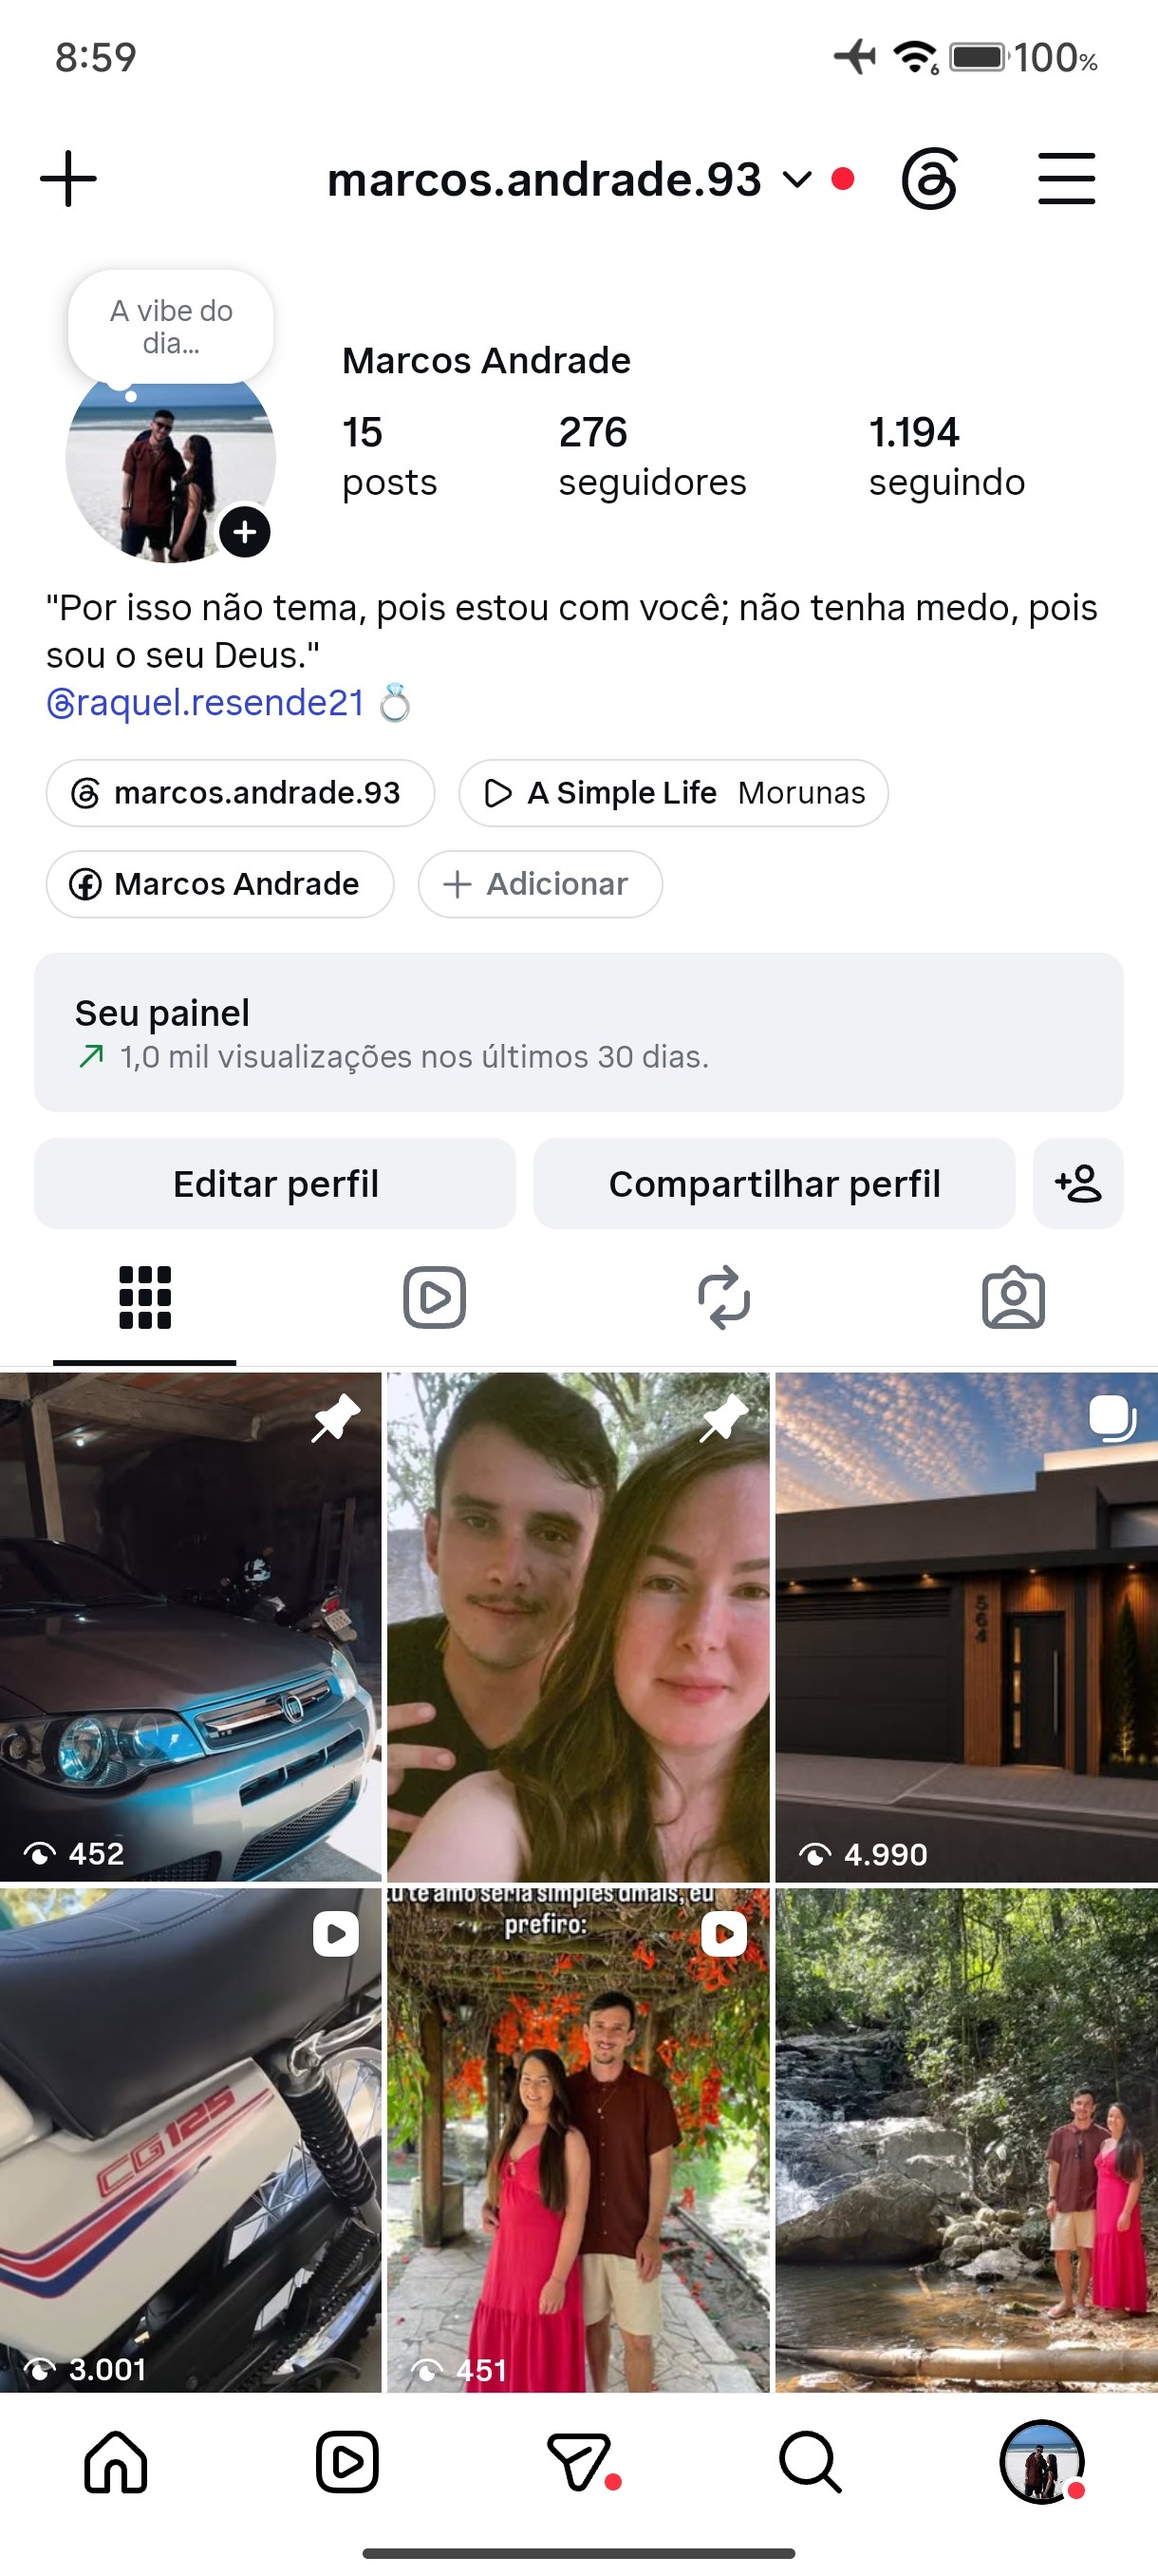
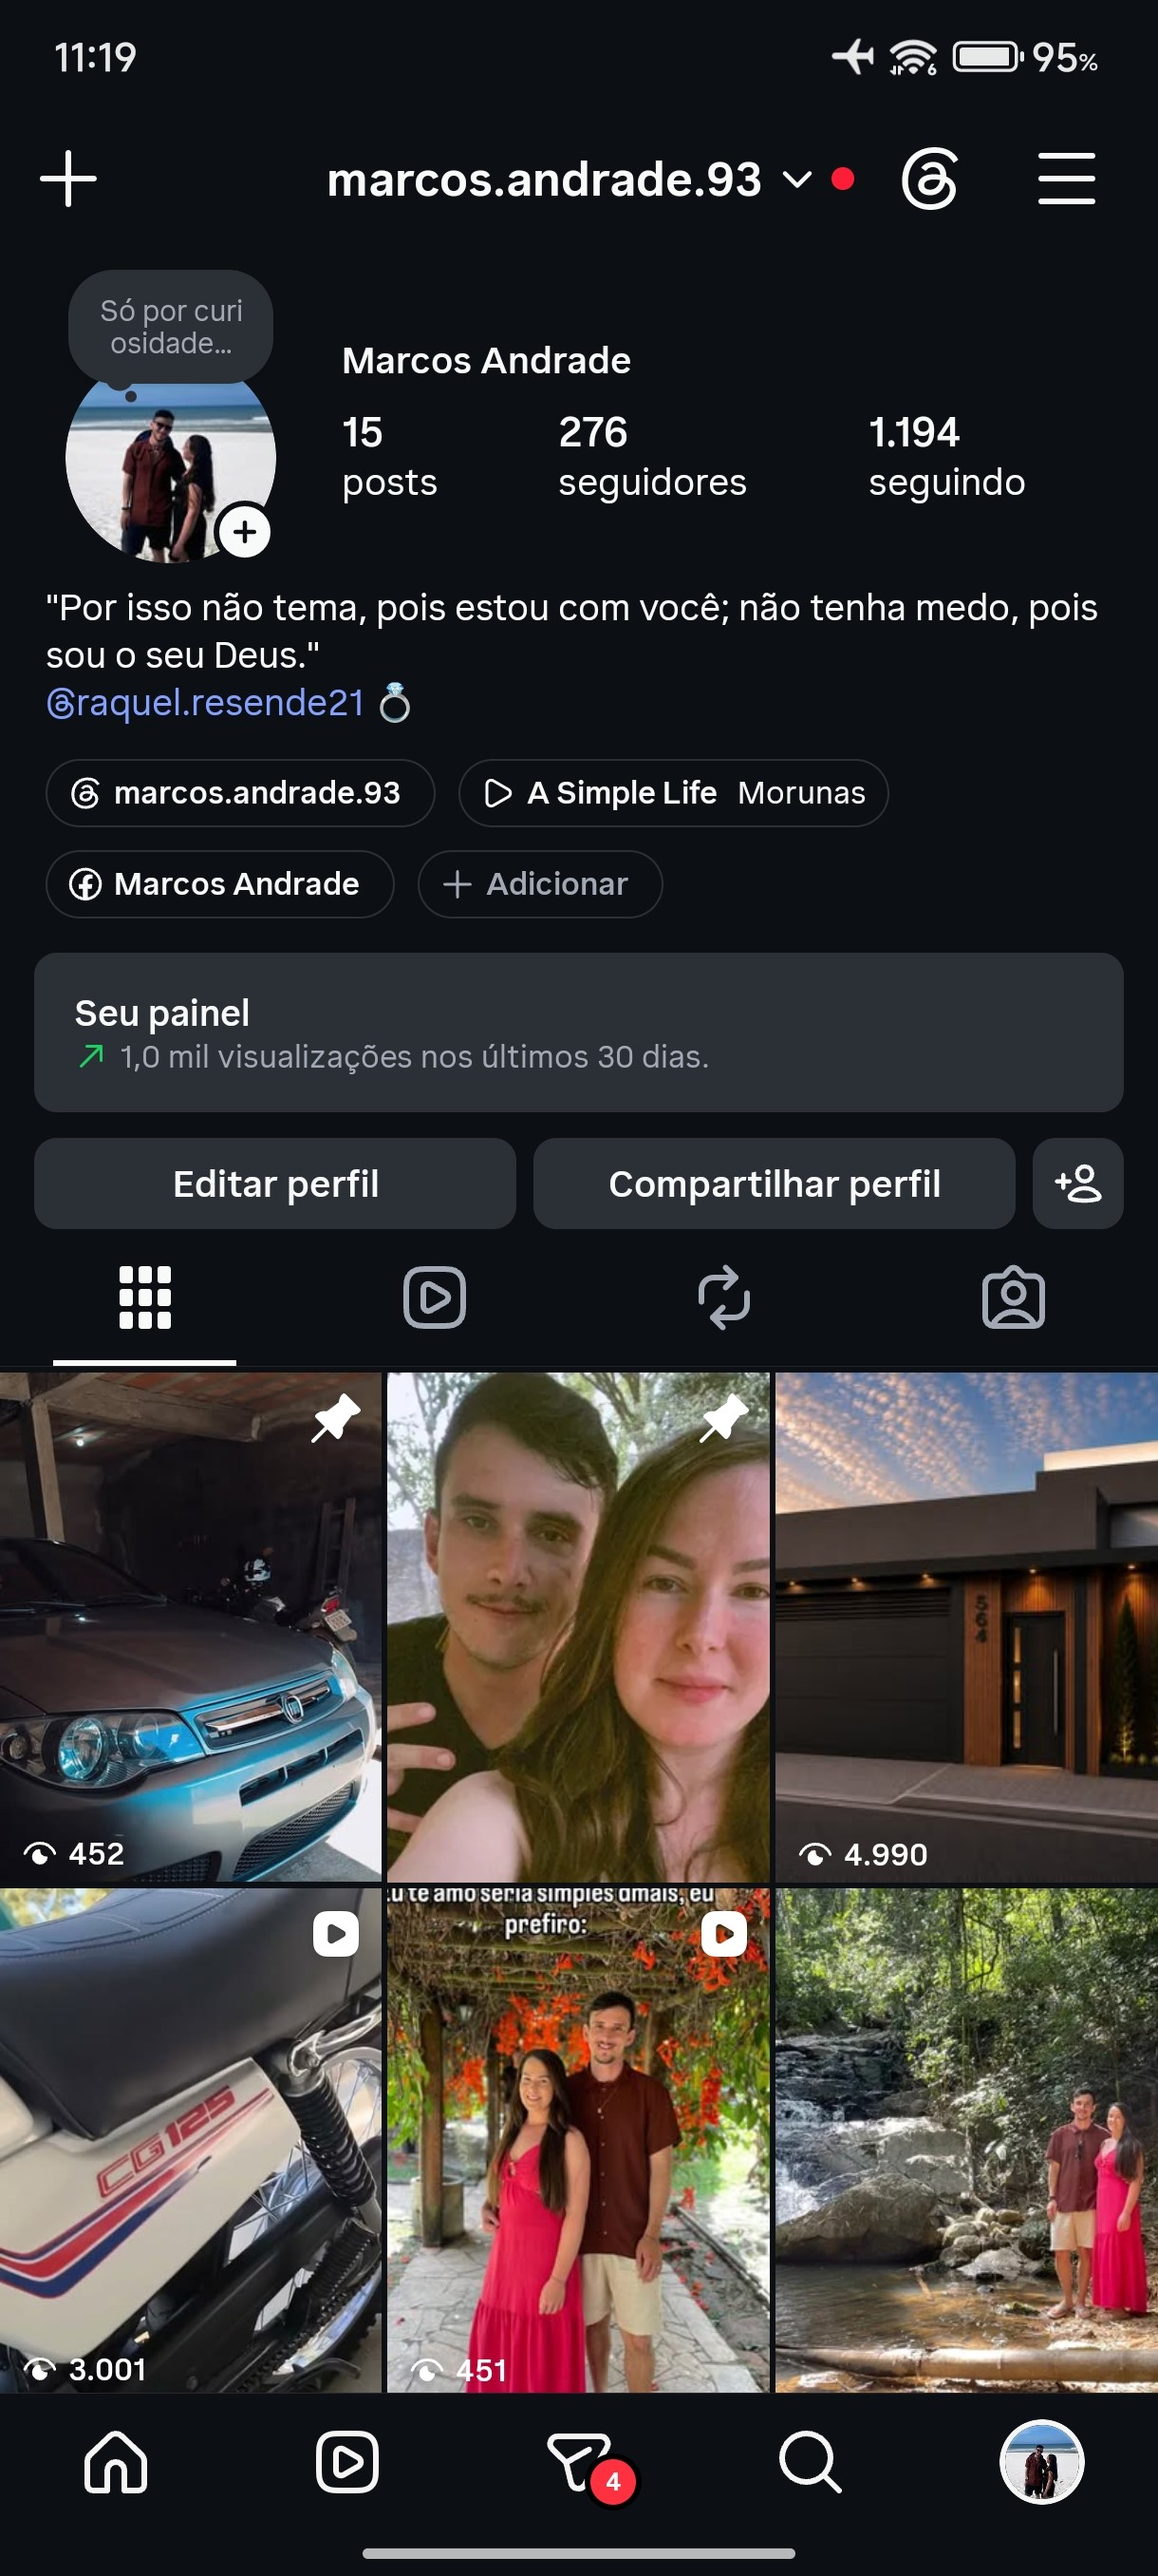
pagina

diff --git a/desafios/desafiosociais/index.html b/desafios/desafiosociais/index.html
@@ -12,11 +12,18 @@
 <body>
     <main>
         <section id="telefone">
-            <iframe src="home.html" name="tela" id="tela" frameborder="0"></iframe>
+            <iframe src="home.html" name="tela" id="tela" frameborder="0">
+                Seu navegador não suporta iframes.
+            </iframe>
 
         </section>
 
         <section id="redes_sociais">
+            <a href="home.html" target="tela"><img src="imagens/home.png" alt="Home"></a><br>
+            <a href="paginas/fck.html" target="tela"><img src="imagens/fcbk.png" alt="Facebook"></a><br>
+            <a href="paginas/inst.html" target="tela"><img src="imagens/instg.png" alt="Instagram"></a><br>
+            <a href="paginas/twt.html" target="tela"><img src="imagens/twt.png" alt="Twitter"></a><br>
+            <a href="paginas/wts.html" target="tela"><img src="imagens/wtsapp.png" alt="WhatsApp"></a>
 
         </section>
     </main>

diff --git a/desafios/desafiosociais/estilos/style.css b/desafios/desafiosociais/estilos/style.css
@@ -38,6 +38,26 @@ iframe#tela {
     position: relative;
     top: 80px;
     left: 22px;
-    width: 269px;
+    width: 267px;
     height: 471px;
+}
+
+section#redes_sociais {
+    text-align: right;
+}
+
+section#redes_sociais img {
+    width: 50px;
+    margin: 10px;
+    border-radius: 50%;
+    box-shadow: 2px 2px 5px #0000009a;
+    box-sizing: border-box;
+}
+
+section#redes_sociais img:hover {
+    border: 2px solid #ffffffce;
+    transform: translate(-3px, -3px);
+    background-color: #ffffffce;
+    box-shadow: 5px 5px 10px #0000009a;
+    transition: 0.5s, border 1s;
 }

diff --git a/desafios/desafiosociais/paginas/fck.html b/desafios/desafiosociais/paginas/fck.html
@@ -1,0 +1,21 @@
+<!DOCTYPE html>
+<html lang="pt-br">
+
+<head>
+    <meta charset="UTF-8">
+    <meta name="viewport" content="width=device-width, initial-scale=1.0">
+    <title>Facebook</title>
+    <link rel="stylesheet" href="../estilos/social.css">
+
+    <link rel="shortcut icon" href="../imagens/favicon.ico" type="image/x-icon">
+
+</head>
+
+<body>
+    <img src="../imagens/fcbk_tela.jpg" alt="Facebook">
+    <a href="https://www.facebook.com/marcos.andrade.9212/?locale=pt_BR" target="_blank">Acesse o
+        Facebook</a>
+
+</body>
+
+</html>

diff --git a/desafios/desafiosociais/paginas/inst.html b/desafios/desafiosociais/paginas/inst.html
@@ -1,0 +1,21 @@
+<!DOCTYPE html>
+<html lang="pt-br">
+
+<head>
+    <meta charset="UTF-8">
+    <meta name="viewport" content="width=device-width, initial-scale=1.0">
+    <title>Instagram</title>
+    <link rel="stylesheet" href="../estilos/social.css">
+
+    <link rel="shortcut icon" href="../imagens/favicon.ico" type="image/x-icon">
+
+</head>
+
+<body>
+    <img src="../imagens/instg_tela.jpg" alt="Instagram">
+    <a href="https://www.instagram.com/marcos.andrade.93/" target="_blank">Acesse o
+        Instagram</a>
+
+</body>
+
+</html>

diff --git a/desafios/desafiosociais/estilos/social.css b/desafios/desafiosociais/estilos/social.css
@@ -1,0 +1,33 @@
+  @charset "UTF-8";
+
+  * {
+      margin: 0px;
+      padding: 0px;
+      font-family: Arial, sans-serif;
+  }
+
+  ::-webkit-scrollbar {
+      width: 0px;
+      height: 0px;
+  }
+
+  img {
+      width: 100vw;
+
+  }
+
+  a {
+      display: block;
+      background-color: #696c6ebd;
+      font-weight: bolder;
+      text-align: center;
+      text-decoration: none;
+      color: white;
+      padding: 20px;
+  }
+
+  a:hover {
+      background-color: #000000;
+      transition: 0.5s;
+      color: white;
+  }

diff --git a/desafios/desafiosociais/paginas/wts.html b/desafios/desafiosociais/paginas/wts.html
@@ -1,0 +1,21 @@
+<!DOCTYPE html>
+<html lang="pt-br">
+
+<head>
+    <meta charset="UTF-8">
+    <meta name="viewport" content="width=device-width, initial-scale=1.0">
+    <title>WhatsApp</title>
+    <link rel="stylesheet" href="../estilos/social.css">
+
+    <link rel="shortcut icon" href="../imagens/favicon.ico" type="image/x-icon">
+
+</head>
+
+<body>
+    <img src="../imagens/wtsapp_tela.jpg" alt="WhatsApp">
+    <a href="https://wa.me/5531995911747" target="_blank">Acesse o
+        WhatsApp</a>
+
+</body>
+
+</html>

diff --git a/desafios/desafiosociais/paginas/twt.html b/desafios/desafiosociais/paginas/twt.html
@@ -1,0 +1,21 @@
+<!DOCTYPE html>
+<html lang="pt-br">
+
+<head>
+    <meta charset="UTF-8">
+    <meta name="viewport" content="width=device-width, initial-scale=1.0">
+    <title>Twitter</title>
+    <link rel="stylesheet" href="../estilos/social.css">
+
+    <link rel="shortcut icon" href="../imagens/favicon.ico" type="image/x-icon">
+
+</head>
+
+<body>
+    <img src="../imagens/twt_tela.jpg" alt="Twitter">
+    <a href="https://x.com/_Th3Marc0s" target="_blank">Acesse o
+        Twitter</a>
+
+</body>
+
+</html>
